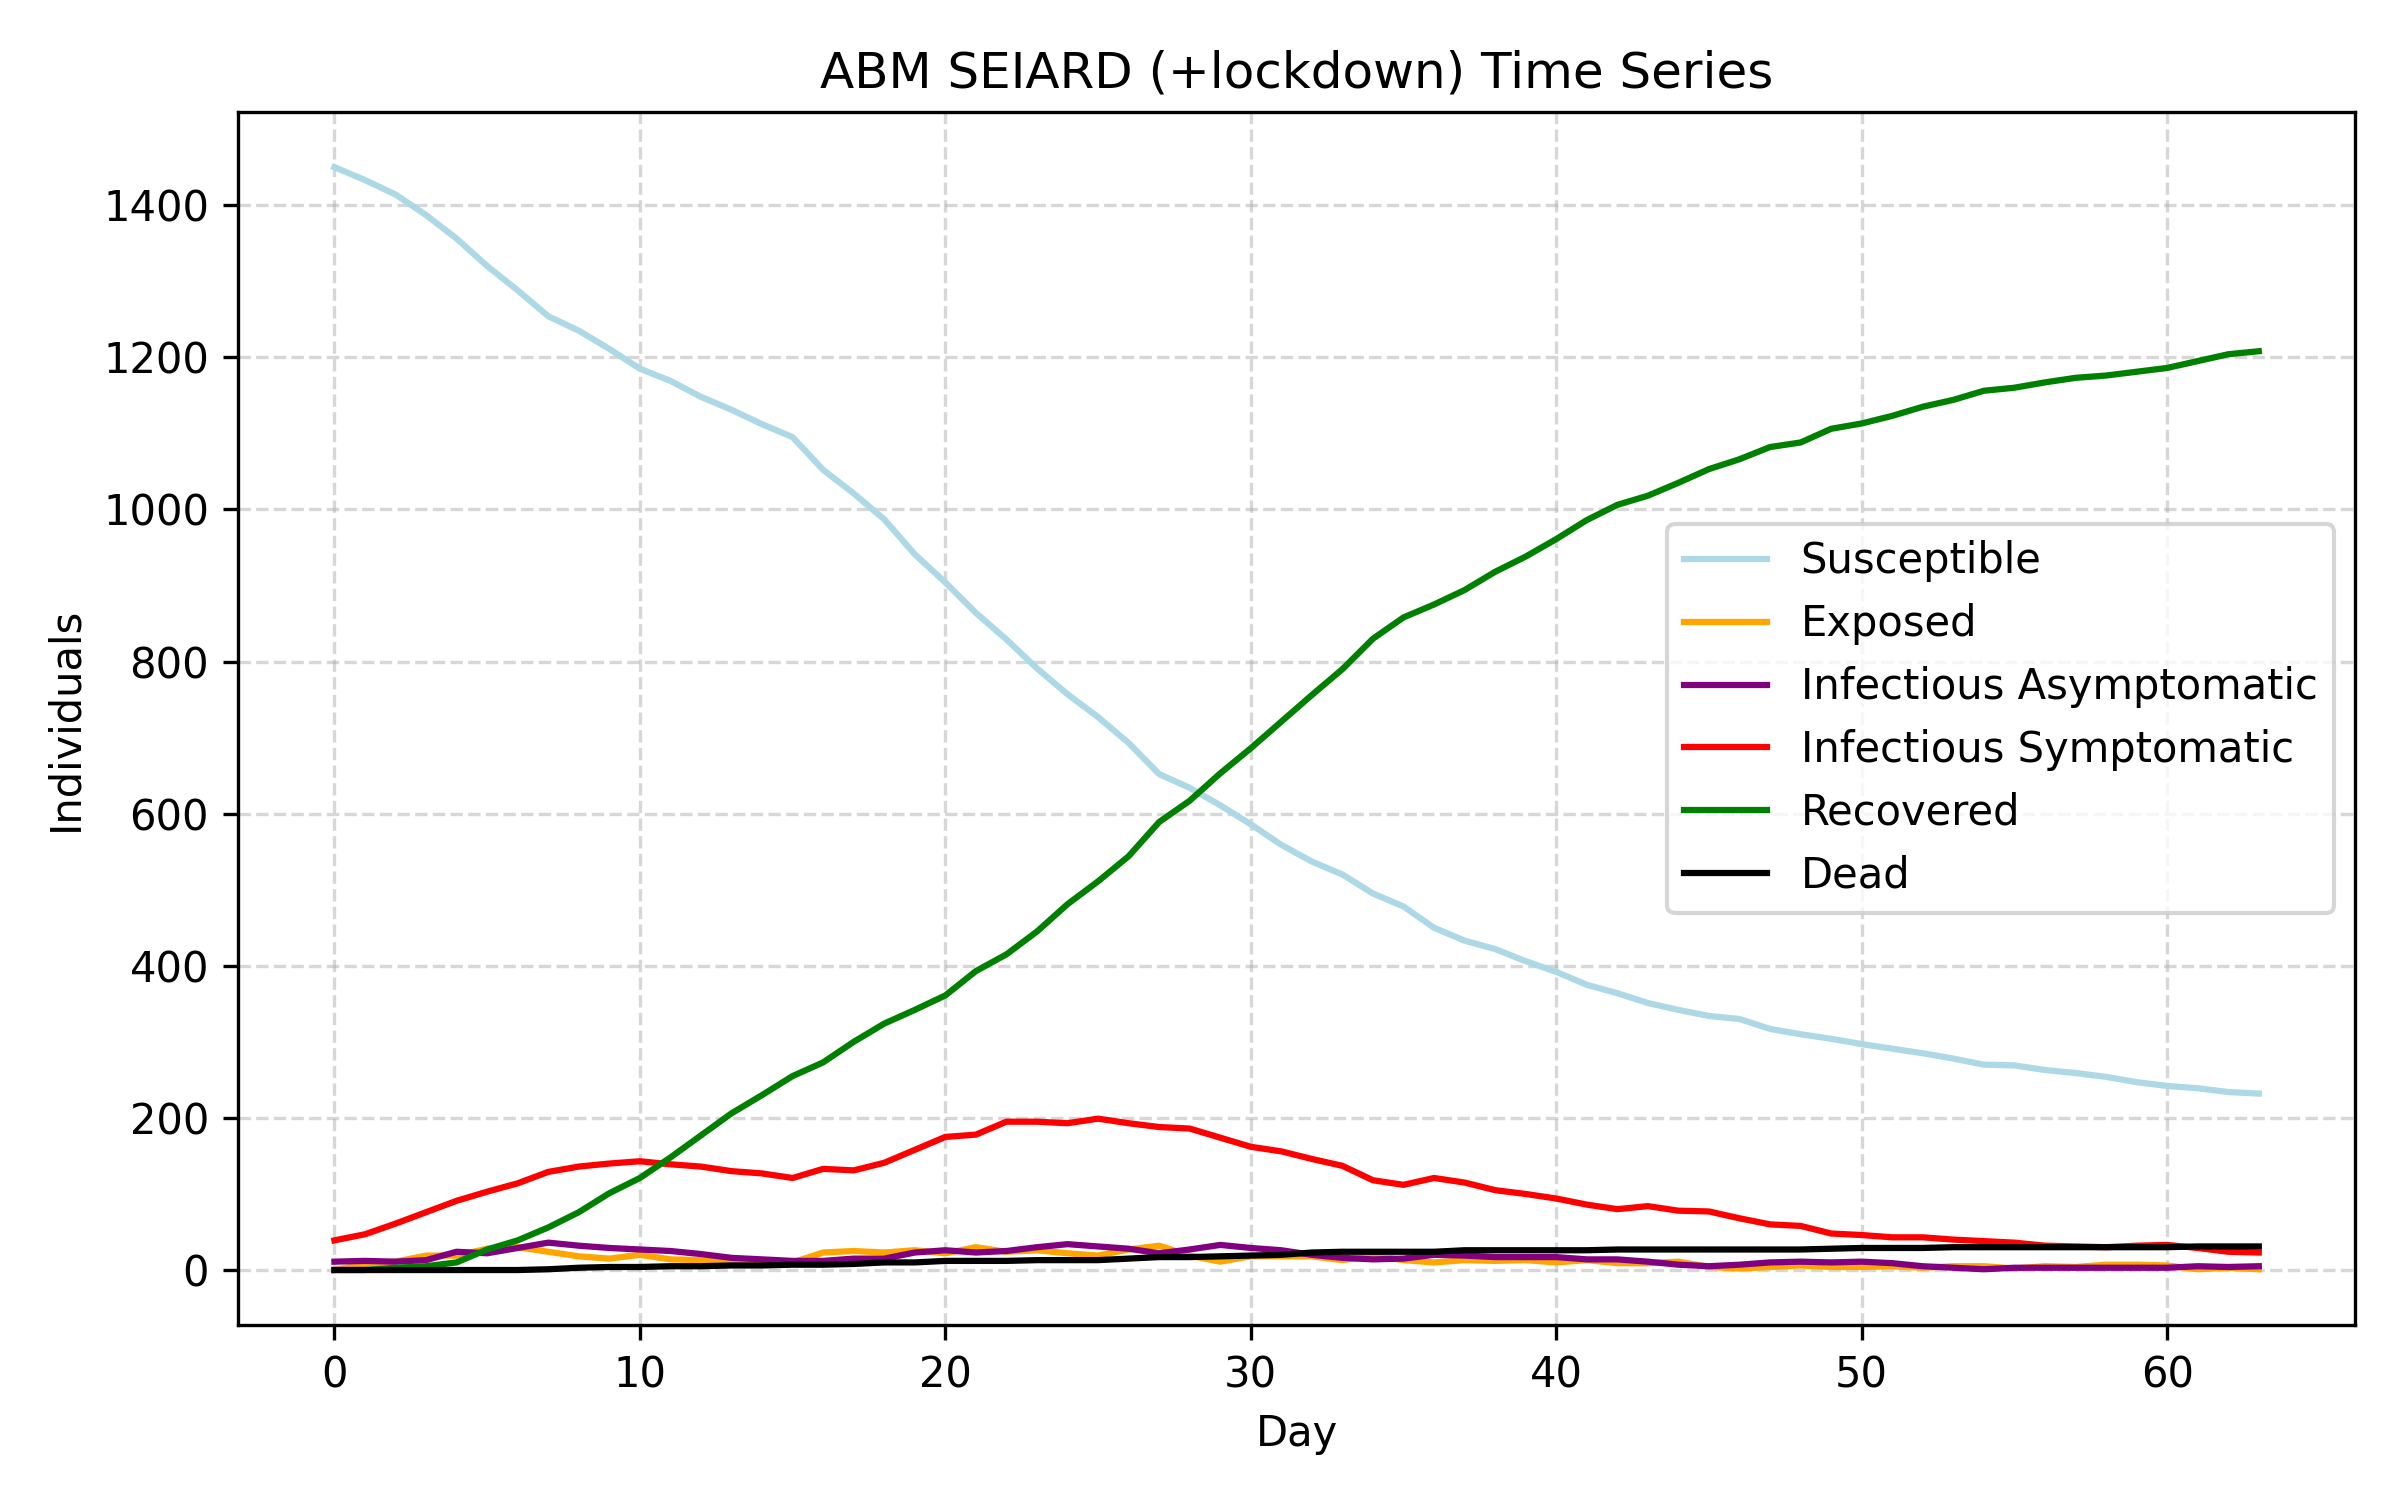
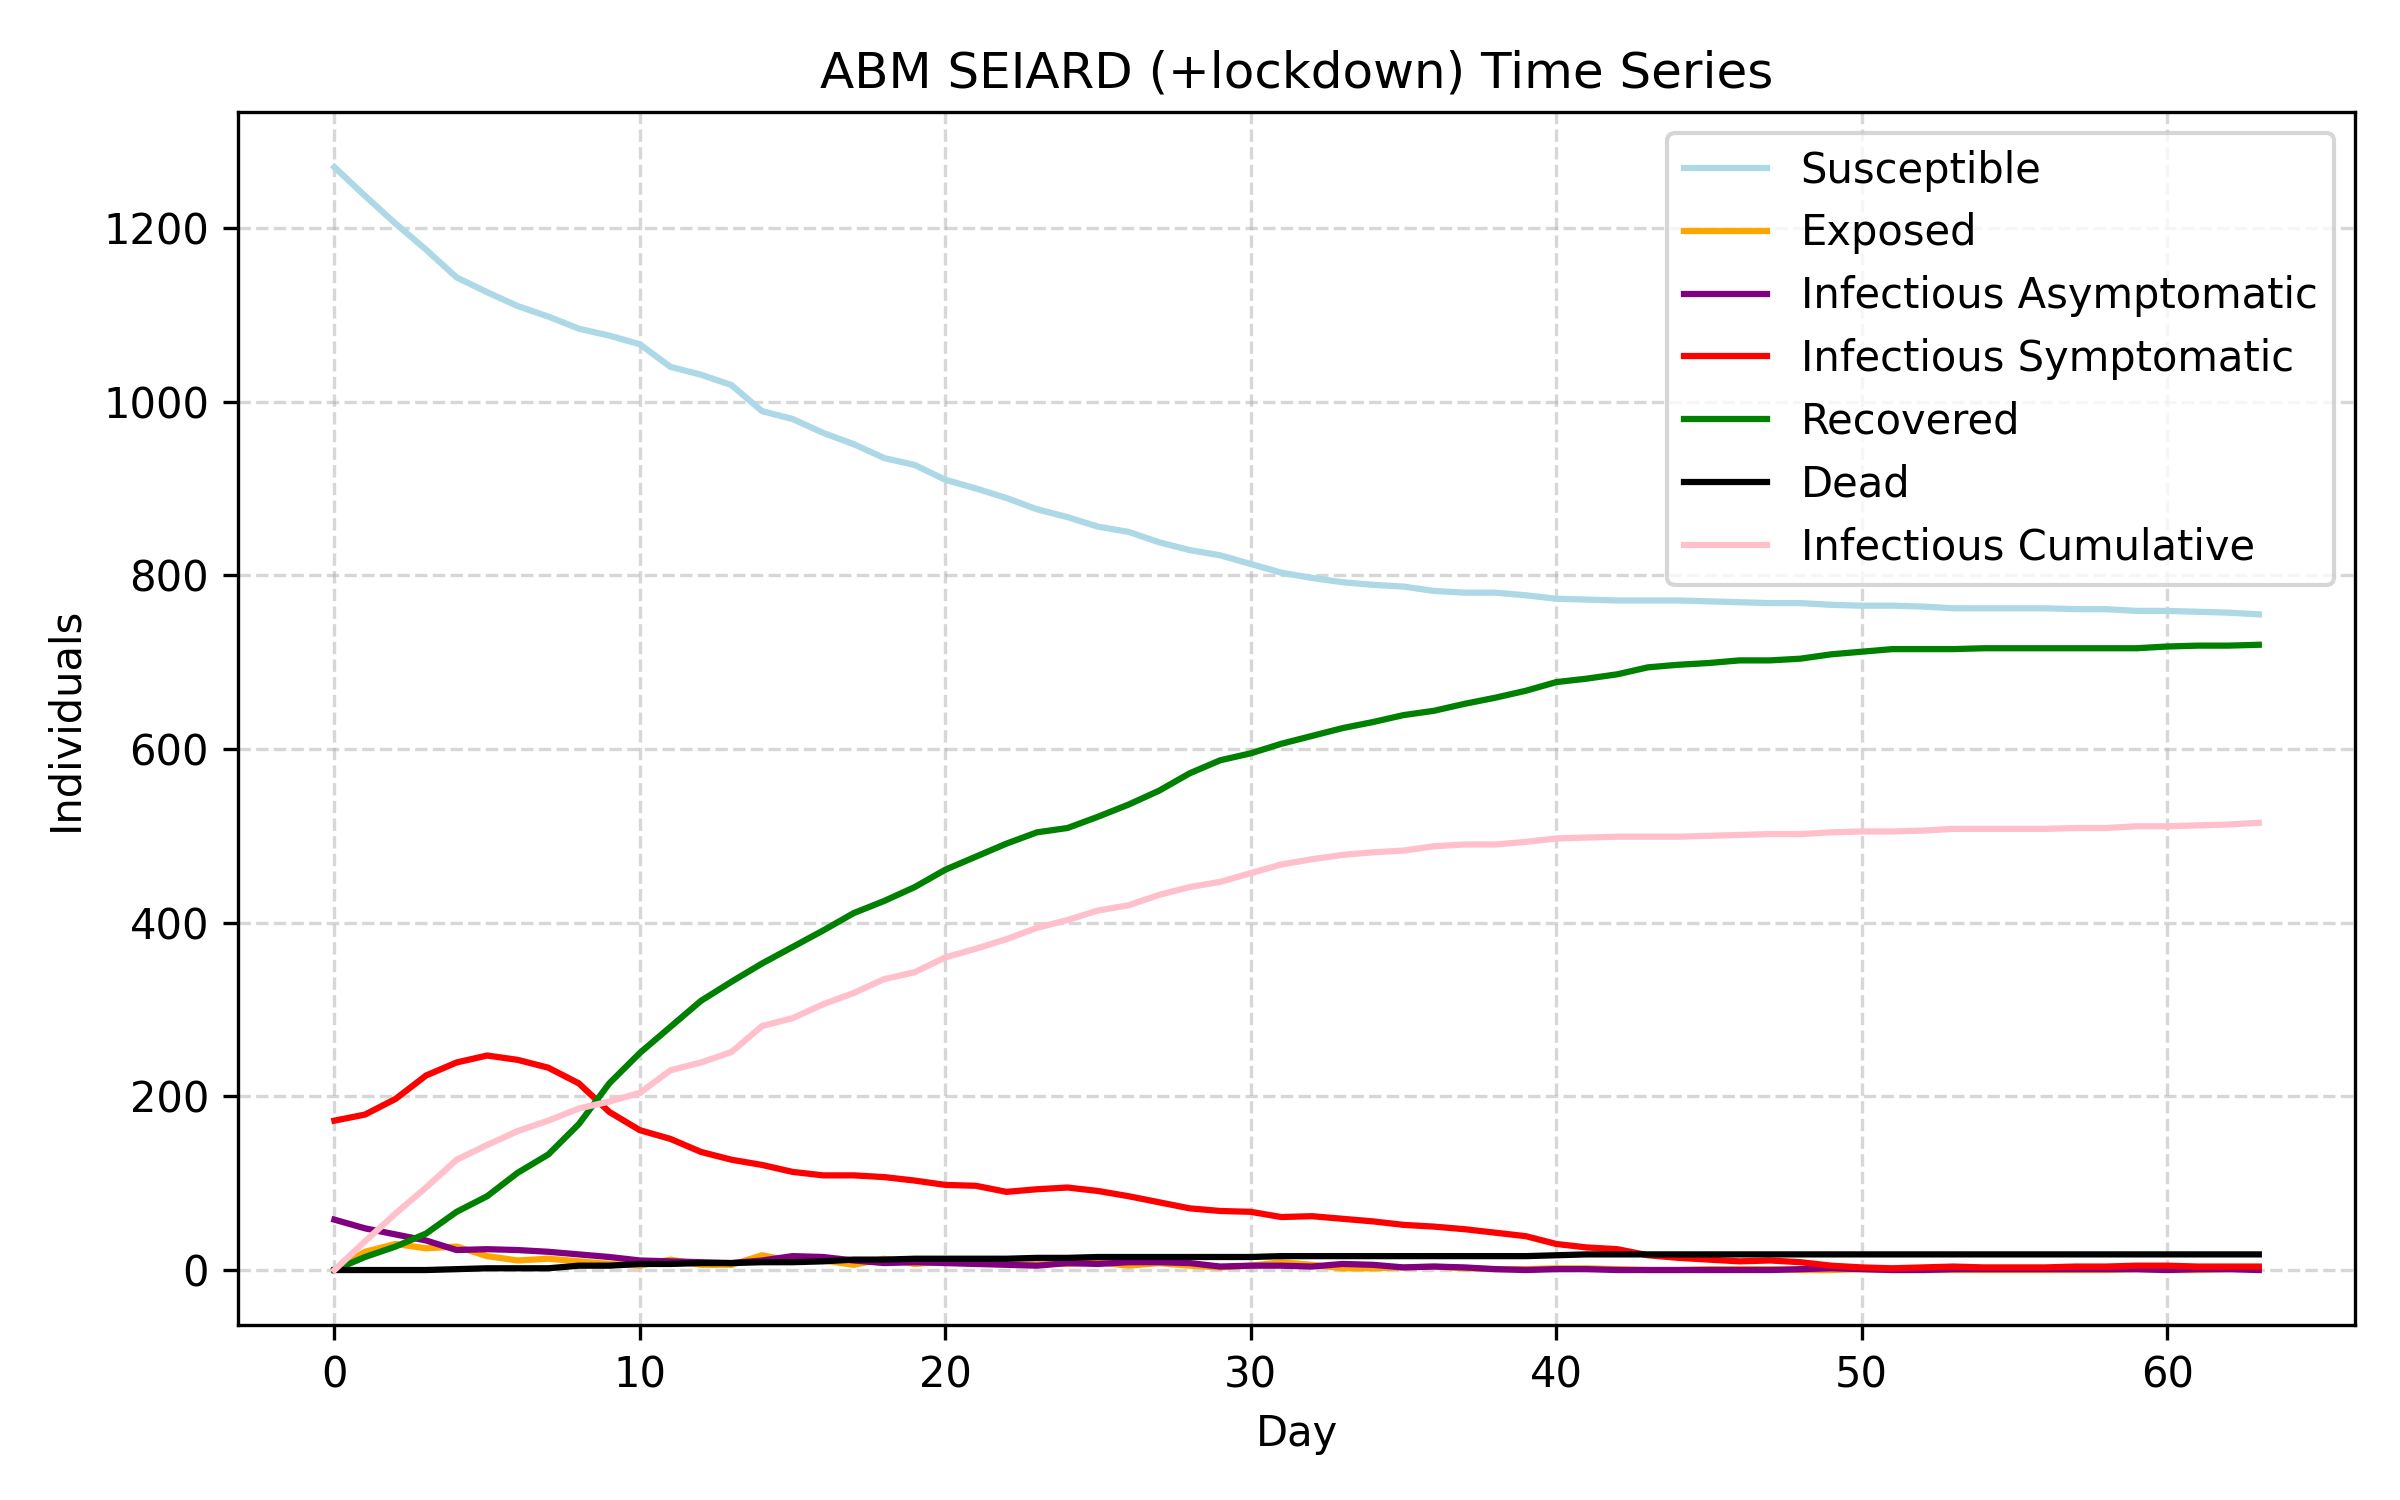
fix: bug with initial infected agents in sir model; update sir model config; remove active cases comparison from model evalution ; generate new outputs for most of examples

diff --git a/src/examples.py b/src/examples.py
@@ -26,12 +26,14 @@ def ex_sir_1():
 
 def ex_sirnetwork_1():
     cfg = Config(
+        N=1500,
+        I0=230,
         seed=42
     )
 
     model_net = ABMNetwork(cfg, network_type="watts_strogatz", k=10, beta=0.1)
     # Run model
-    model_net.run(days=60)
+    model_net.run(days=100)
 
     fig = plot_history(model_net.history, "SIR_network")
     fig.savefig("img/sir_network.png", dpi=300)
@@ -48,13 +50,13 @@ def ex_sirnetwork_1():
 def ex_seird_1():
     cfg = ConfigSEIRD(
         N=1500,
-        I0=50,
+        I0=230,
         seed=42,
     )
     model_seird = ABMNetworkSEIRD(cfg, network_type="watts_strogatz", k=10, beta=0.1,)
 
     # Run model
-    model_seird.run(days=64)
+    model_seird.run(days=100)
 
     fig = plot_history(model_seird.history, "SEIRD")
     fig.savefig("img/seird.png", dpi=300)
@@ -67,13 +69,13 @@ def ex_seird_1():
 def ex_seiard_1():
     cfg = ConfigSEIARD(
         N=1500,
-        I0=50,
+        I0=230,
         seed=42,
     )
 
     model_seiard = ABMNetworkSEIARD(cfg, network_type="watts_strogatz", k=10, beta=0.1,)
     # Run model
-    model_seiard.run(days=64)
+    model_seiard.run(days=100)
 
     fig = plot_history(model_seiard.history, "SEIARD")
     fig.savefig("img/seiard.png", dpi=300)
@@ -128,11 +130,12 @@ def ex_interventions_seird_1():
 def ex_interventions_seiard_1():
     cfg = ConfigSEIARD(
         N=1500,
-        I0=50, 
+        I0=230, 
         seed=42,
     )
+    
     interventions = [
-            Lockdown(start_day=8, end_day=15, reduction_factor=0.5),
+            Lockdown(start_day=5, end_day=10, reduction_factor=0.5),
         ]
     
     model_seiard = ABMNetworkSEIARD(cfg, interventions=interventions, network_type="watts_strogatz", k=10, beta=0.1,)
@@ -173,7 +176,7 @@ def ex_interventions_sirnetwork_2():
 def ex_interventions_seiard_2():
     cfg = ConfigSEIARD(
         N=1500,
-        I0=50,
+        I0=230, 
         seed=42,
     )
     interventions = [
@@ -196,7 +199,7 @@ def ex_interventions_seiard_2():
 def ex_interventions_vaccines_seiard_2():
     cfg = ConfigSEIARD(
         N=1500,
-        I0=50,
+        I0=230, 
         seed=42,
     )
     interventions = [
@@ -218,7 +221,7 @@ def ex_interventions_vaccines_seiard_2():
 def ex_interventions_vaccines_seiard_1():
     cfg = ConfigSEIARD(
         N=1500,
-        I0=50,
+        I0=230,
         seed=42,
     )
     interventions = [
@@ -247,7 +250,7 @@ def ex_compare_sir():
         contacts_by_group={"child": 8,"adult": 5,"senior": 4},
         age_group_dist = {"child": 0.16,"adult": 0.72,"senior": 0.12},
         
-        p_infect=0.0544,
+        p_infect=0.041,
         
         inf_period_mean=7,
         inf_period_std=2,
@@ -256,7 +259,7 @@ def ex_compare_sir():
     )
 
     model_net = ABMNetwork(cfg, network_type="watts_strogatz", k=10, beta=0.1)
-    model_net.run(days=300)
+    model_net.run(days=250)
     # with open("sir_history.pkl", "wb") as f:
     #     pickle.dump(model_net.history, f)
     
@@ -281,7 +284,7 @@ def ex_compare_seird():
     )
 
     model_net = ABMNetworkSEIRD(cfg, network_type="watts_strogatz", k=10, beta=0.1,)
-    model_net.run(days=300)
+    model_net.run(days=250)
     
     real_data = load_data("data/processed_data.csv", 125000, 8)
     evaluate_model(model_net.history, real_data)
@@ -308,7 +311,7 @@ def ex_compare_seiard():
     )
 
     model = ABMNetworkSEIARD(cfg , network_type="watts_strogatz", k=10, beta=0.1,)
-    model.run(days=300)
+    model.run(days=250)
     
     real_data = load_data("data/processed_data.csv", 125000, 8)
     hist = model.history

diff --git a/src/data/evaluate_model.py b/src/data/evaluate_model.py
@@ -6,22 +6,22 @@ from typing import List
 def evaluate_model(model_history, real_data, plot=True):
     # ACTIVE CASES COMPARISON
 
-    model_I = np.array(model_history["I"], dtype=int)
-    real_I = np.array(real_data["I"], dtype=int)
+    # model_I = np.array(model_history["I"], dtype=int)
+    # real_I = np.array(real_data["I"], dtype=int)
     
-    L = min(len(model_I), len(real_I))
-    model_I = model_I[:L]
-    real_I = real_I[:L]
+    # L = min(len(model_I), len(real_I))
+    # model_I = model_I[:L]
+    # real_I = real_I[:L]
 
-    mae_active = np.mean(np.abs(model_I - real_I))
-    mse_active = np.mean((model_I - real_I) ** 2)
-    rmse_active = np.sqrt(mse_active)
+    # mae_active = np.mean(np.abs(model_I - real_I))
+    # mse_active = np.mean((model_I - real_I) ** 2)
+    # rmse_active = np.sqrt(mse_active)
 
-    metrics_active = {
-        "MAE": mae_active,
-        "MSE": mse_active,
-        "RMSE": rmse_active,
-    }
+    # metrics_active = {
+    #     "MAE": mae_active,
+    #     "MSE": mse_active,
+    #     "RMSE": rmse_active,
+    # }
 
     # CUMULATIVE CASES COMPARISON
     
@@ -46,16 +46,16 @@ def evaluate_model(model_history, real_data, plot=True):
     # PLOTTING
     if plot:
 
-        # Active cases plot
-        plt.figure(figsize=(10, 5))
-        plt.plot(real_I, label="Real active cases", linewidth=2)
-        plt.plot(model_I, label="Model active cases", linestyle='--')
-        plt.title("Model vs Real — Active Cases")
-        plt.xlabel("Day")
-        plt.ylabel("Active infections")
-        plt.legend()
-        plt.grid(True)
-        plt.show()
+        # # Active cases plot
+        # plt.figure(figsize=(10, 5))
+        # plt.plot(real_I, label="Real active cases", linewidth=2)
+        # plt.plot(model_I, label="Model active cases", linestyle='--')
+        # plt.title("Model vs Real — Active Cases")
+        # plt.xlabel("Day")
+        # plt.ylabel("Active infections")
+        # plt.legend()
+        # plt.grid(True)
+        # plt.show()
 
         # Cumulative cases plot
         plt.figure(figsize=(10, 5))
@@ -71,16 +71,21 @@ def evaluate_model(model_history, real_data, plot=True):
         # Error metrics plot
         plt.figure(figsize=(8, 5))
         
-        labels = ["Active MAE", "Active MSE", "Active RMSE",
-                  "Cumulative MAE", "Cumulative MSE", "Cumulative RMSE"]
-        values = [
-            mae_active, mse_active, rmse_active,
-            mae_cum, mse_cum, rmse_cum
-        ]
+        # labels = ["Active MAE", "Active MSE", "Active RMSE",
+        #           "Cumulative MAE", "Cumulative MSE", "Cumulative RMSE"]
+        # values = [
+        #     mae_active, mse_active, rmse_active,
+        #     mae_cum, mse_cum, rmse_cum
+        # ]
+        # labels = ["Cumulative MAE", "Cumulative MSE", "Cumulative RMSE"]
+        # values = [mae_cum, mse_cum, rmse_cum]
+        labels = ["Cumulative MAE", "Cumulative RMSE"]
+        values = [mae_cum, rmse_cum]
 
         plt.bar(labels, values)
         plt.xticks(rotation=45, ha='right')
-        plt.title("Error Metrics (Active & Cumulative)")
+        # plt.title("Error Metrics (Active & Cumulative)")
+        plt.title("Error Metrics")
         plt.ylabel("Error value")
         plt.grid(axis='y')
         plt.yscale("log")
@@ -89,6 +94,6 @@ def evaluate_model(model_history, real_data, plot=True):
 
     # RETURN BOTH METRIC SETS
     return {
-        "active": metrics_active,
+        # "active": metrics_active,
         "cumulative": metrics_cumulative
     }

diff --git a/src/abm.py b/src/abm.py
@@ -35,7 +35,8 @@ class ABM:
         # Infect I0 randomly
         initial_I = random.sample(range(cfg.N), cfg.I0)
         for idx in initial_I:
-            self.agents[idx].state = Agent.I
+            self.agents[idx].infect()
+            # self.agents[idx].state = Agent.I
 
         # Time-series tracking (store S/I/R counts per day)
         self.history: Dict[str, list[int]] = {k: [] for k in ["S", "I", "R", "I_cumulative"]}

diff --git a/src/config.py b/src/config.py
@@ -18,7 +18,7 @@ class Config:
     starting_total_infections: int = 0
     # contacts_per_day: int = 10    # depricated, use contacts_by_group
 
-    p_infect: float = 0.0544
+    p_infect: float = 0.041
     inf_period_mean: float = 7
     inf_period_std: float = 2
 
